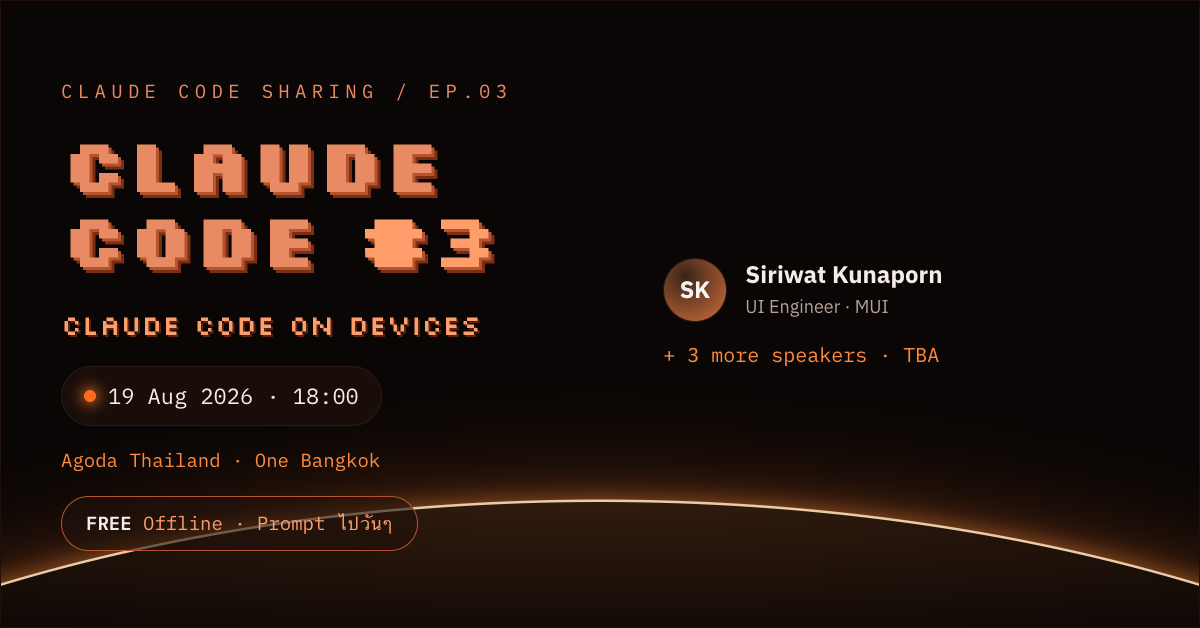
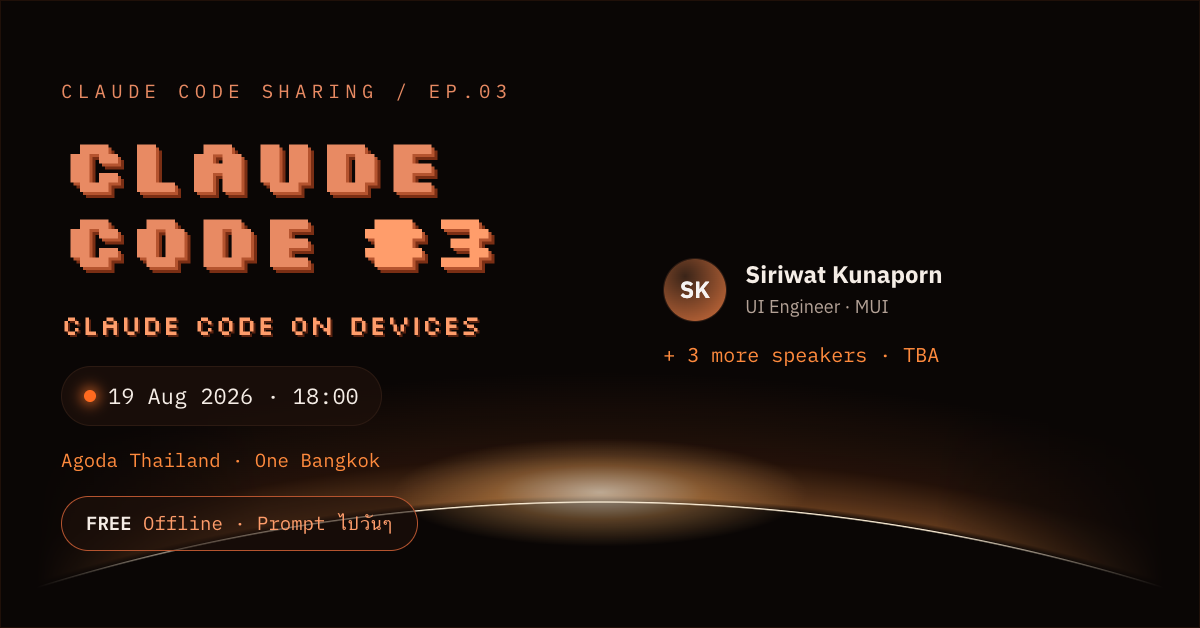
Orbit rework (thin fading rim + sunrise bloom, fixed radius) + hero layout: FREE top-right, 2-line title, drop EP.03, translucent-blur chips

Changed region(s): [[0.2775, 0.6959, 1.0, 0.9379], [0.1233, 0.8169, 0.3083, 0.8774], [0.0, 0.8471, 0.1233, 0.9379]]

diff --git a/meetups/claude-code-3/styles.css b/meetups/claude-code-3/styles.css
@@ -22,22 +22,24 @@ a{color:inherit;text-decoration:none}
 .back{display:inline-flex;align-items:center;gap:.5rem;font-family:"IBM Plex Mono",monospace;font-size:.82rem;color:var(--ash)}
 .back:hover{color:var(--flame)}
 .top-tag{font-family:"IBM Plex Mono",monospace;font-size:.72rem;letter-spacing:.18em;color:var(--ash-dim);text-transform:uppercase}
+.top-free{font-family:"IBM Plex Mono",monospace;font-size:.72rem;letter-spacing:.14em;color:var(--ash);text-transform:uppercase}
+.top-free strong{color:var(--flame);font-weight:600}
 
 /* hero */
 .hero{position:relative;min-height:96svh;display:flex;align-items:center;justify-content:center;overflow:hidden;padding:5rem var(--pad) 4rem;text-align:center}
 .hero-in{position:relative;z-index:2;max-width:760px;display:flex;flex-direction:column;align-items:center;gap:1.15rem}
-.p-title{font-family:"Silkscreen",monospace;font-weight:700;font-size:clamp(2rem,7.5vw,5rem);line-height:.98;white-space:nowrap;color:var(--coral);text-shadow:2px 2px 0 var(--coral-deep),4px 4px 0 var(--coral-shadow),6px 7px 16px rgba(0,0,0,.55)}
+.p-title{font-family:"Silkscreen",monospace;font-weight:700;font-size:clamp(2rem,7vw,4.3rem);line-height:.98;white-space:nowrap;color:var(--coral);text-shadow:2px 2px 0 var(--coral-deep),4px 4px 0 var(--coral-shadow),6px 7px 16px rgba(0,0,0,.55)}
 .p-title .hash{font-style:normal;color:var(--flame)}
 .tagline{font-family:"Silkscreen",monospace;font-size:clamp(1rem,3.2vw,1.7rem);letter-spacing:.04em;color:var(--flame);text-shadow:2px 2px 0 rgba(122,46,20,.7)}
 .lede{max-width:44ch;color:var(--bone);font-size:1.05rem;text-shadow:0 1px 12px rgba(8,4,2,.7)}
 .chips{display:flex;flex-wrap:wrap;gap:.55rem;justify-content:center}
-.chip{display:inline-flex;align-items:center;gap:.5rem;font-family:"IBM Plex Mono",monospace;font-size:.82rem;color:var(--bone);background:rgba(30,16,10,.72);border:1px solid var(--line);padding:.5rem .9rem;border-radius:999px}
+.chip{display:inline-flex;align-items:center;gap:.5rem;font-family:"IBM Plex Mono",monospace;font-size:.82rem;color:var(--bone);background:rgba(22,13,8,.38);border:1px solid rgba(255,180,120,.14);padding:.5rem .9rem;border-radius:999px;backdrop-filter:blur(10px);-webkit-backdrop-filter:blur(10px)}
 .chip .dot{width:8px;height:8px;border-radius:50%;background:var(--glow);box-shadow:0 0 10px 2px rgba(255,120,45,.8)}
 .cta-row{display:flex;flex-wrap:wrap;gap:.7rem;justify-content:center;margin-top:.2rem}
 .btn{font-family:"IBM Plex Mono",monospace;font-size:.82rem;letter-spacing:.05em;text-transform:uppercase;padding:.78rem 1.35rem;border-radius:999px;font-weight:600;transition:transform .15s,box-shadow .2s,border-color .2s,color .2s;cursor:pointer;border:none}
 .btn:hover{transform:translateY(-2px)}
 .btn-primary{background:linear-gradient(135deg,var(--flame),var(--glow));color:#20100a;box-shadow:0 8px 26px -8px rgba(255,120,45,.7)}
-.btn-ghost{border:1px solid var(--line);color:var(--bone);background:rgba(30,16,10,.4)}
+.btn-ghost{border:1px solid rgba(255,180,120,.16);color:var(--bone);background:rgba(22,13,8,.34);backdrop-filter:blur(10px);-webkit-backdrop-filter:blur(10px)}
 .btn-ghost:hover{border-color:var(--glow-soft);color:var(--flame)}
 .btn-ghost[aria-disabled="true"]{opacity:.55;pointer-events:none}
 .hero-meta{list-style:none;display:flex;flex-wrap:wrap;gap:.5rem .9rem;justify-content:center;font-family:"IBM Plex Mono",monospace;font-size:.75rem;color:var(--ash);margin-top:.2rem}
@@ -47,11 +49,11 @@ a{color:inherit;text-decoration:none}
 .orga-line{display:flex;align-items:center;gap:.6rem;color:var(--ash);font-size:.9rem;margin-top:.5rem}
 .orga-line strong{color:var(--bone)}
 .orga-line img{width:34px;height:34px}
-.horizon{position:absolute;inset:0;z-index:1;pointer-events:none;overflow:hidden}
-/* atmospheric glow rising off the limb into space */
-.horizon::before{content:"";position:absolute;left:50%;bottom:0;transform:translateX(-50%);width:150%;height:60%;background:radial-gradient(ellipse 60% 95% at 50% 100%,rgba(255,134,54,.40),rgba(255,106,31,.10) 46%,transparent 66%)}
-/* the planet: dark body with a glowing curved limb (Earth from space) */
-.horizon::after{content:"";position:absolute;left:50%;top:70%;transform:translateX(-50%);width:220%;height:150vh;border-radius:50%;background:radial-gradient(ellipse 100% 30% at 50% 0%,rgba(255,140,60,.18),transparent 55%),var(--void);box-shadow:0 -1px 0 1.5px rgba(255,230,192,.85),0 2px 30px 4px rgba(255,150,60,.5),0 6px 100px 26px rgba(255,110,35,.26)}
+.horizon{--orbit-r:1900px;--line-y:66%;position:absolute;inset:0;z-index:1;pointer-events:none;overflow:hidden;-webkit-mask-image:linear-gradient(90deg,transparent 3%,#000 24%,#000 76%,transparent 97%);mask-image:linear-gradient(90deg,transparent 3%,#000 24%,#000 76%,transparent 97%)}
+/* atmosphere glow ring hugging the limb + sunrise bloom at centre */
+.horizon::before{content:"";position:absolute;inset:0;background:radial-gradient(ellipse 26% 13% at 50% calc(var(--line-y) - 1.5%),rgba(255,246,228,.60),rgba(255,182,104,.32) 36%,transparent 72%),radial-gradient(var(--orbit-r) var(--orbit-r) at 50% calc(var(--line-y) + var(--orbit-r)),transparent calc(var(--orbit-r) - 1px),rgba(255,150,70,.34) calc(var(--orbit-r) + 6px),rgba(255,116,42,.10) calc(var(--orbit-r) + 46px),transparent calc(var(--orbit-r) + 130px))}
+/* the thin bright rim */
+.horizon::after{content:"";position:absolute;inset:0;background:radial-gradient(var(--orbit-r) var(--orbit-r) at 50% calc(var(--line-y) + var(--orbit-r)),transparent calc(var(--orbit-r) - 1.6px),rgba(255,240,216,.95) calc(var(--orbit-r) - .3px),rgba(255,240,216,.95) var(--orbit-r),transparent calc(var(--orbit-r) + .9px))}
 
 /* generic section */
 .section{padding:clamp(3rem,7vw,5rem) 0;border-top:1px solid var(--line)}
@@ -111,8 +113,10 @@ a{color:inherit;text-decoration:none}
 
 /* the poster artwork */
 .poster{position:absolute;top:0;left:0;transform-origin:top left;overflow:hidden;background:var(--void);color:var(--bone);box-shadow:0 24px 60px -20px rgba(0,0,0,.8);border:1px solid #201009}
-.poster .stagelight{position:absolute;left:50%;bottom:0;transform:translateX(-50%);width:150%;height:46%;pointer-events:none;background:radial-gradient(ellipse 58% 95% at 50% 100%,rgba(255,134,54,.40),rgba(255,106,31,.10) 46%,transparent 66%)}
-.poster .light{position:absolute;left:50%;top:66%;transform:translateX(-50%);width:200%;height:200%;border-radius:50%;background:radial-gradient(ellipse 100% 24% at 50% 0%,rgba(255,140,60,.16),transparent 55%),var(--void);box-shadow:0 -1px 0 1.5px rgba(255,230,192,.85),0 2px 26px 4px rgba(255,150,60,.5),0 6px 90px 22px rgba(255,110,35,.26)}
+.poster{--orbit-r:1900px;--line-y:66%}
+.poster .stagelight,.poster .light{-webkit-mask-image:linear-gradient(90deg,transparent 3%,#000 22%,#000 78%,transparent 97%);mask-image:linear-gradient(90deg,transparent 3%,#000 22%,#000 78%,transparent 97%)}
+.poster .stagelight{position:absolute;inset:0;pointer-events:none;background:radial-gradient(ellipse 24% 12% at 50% calc(var(--line-y) - 1.5%),rgba(255,246,228,.60),rgba(255,182,104,.32) 36%,transparent 72%),radial-gradient(var(--orbit-r) var(--orbit-r) at 50% calc(var(--line-y) + var(--orbit-r)),transparent calc(var(--orbit-r) - 1px),rgba(255,150,70,.34) calc(var(--orbit-r) + 6px),rgba(255,116,42,.10) calc(var(--orbit-r) + 46px),transparent calc(var(--orbit-r) + 130px))}
+.poster .light{position:absolute;inset:0;background:radial-gradient(var(--orbit-r) var(--orbit-r) at 50% calc(var(--line-y) + var(--orbit-r)),transparent calc(var(--orbit-r) - 1.6px),rgba(255,240,216,.95) calc(var(--orbit-r) - .3px),rgba(255,240,216,.95) var(--orbit-r),transparent calc(var(--orbit-r) + .9px))}
 .poster .pcontent{position:relative;z-index:2;height:100%;display:flex;flex-direction:column;padding:56px}
 .pk-eyebrow{font-family:"IBM Plex Mono",monospace;letter-spacing:.28em;font-size:19px;color:var(--coral)}
 .pk-title{font-family:"Silkscreen",monospace;font-weight:700;color:var(--coral);line-height:.98;text-shadow:3px 3px 0 var(--coral-deep),6px 6px 0 var(--coral-shadow)}
@@ -157,8 +161,7 @@ a{color:inherit;text-decoration:none}
 .poster[data-mode="landscape"] .pk-more{font-size:20px}
 .poster[data-mode="landscape"] .pk-badge{font-size:19px}
 .poster[data-mode="landscape"] .pk-orga{font-size:19px}
-.poster[data-mode="landscape"] .light{top:80%}
-.poster[data-mode="landscape"] .stagelight{height:34%}
+.poster[data-mode="landscape"]{--line-y:80%}
 .poster[data-mode="landscape"] .pk-speakers{display:flex;flex-direction:column;gap:16px}
 
 /* footer */

diff --git a/meetups/claude-code-3/index.html b/meetups/claude-code-3/index.html
@@ -20,14 +20,14 @@
 
 <header class="topbar">
   <a class="back" href="../../">← All meetups</a>
+  <span class="top-free"><strong>FREE</strong> · Offline event</span>
 </header>
 
 <main id="main">
   <!-- HERO -->
   <section class="hero">
     <div class="hero-in">
-      <p class="eyebrow">EP.03</p>
-      <h1 class="p-title">CLAUDE<br>CODE<br>SHARING <span class="hash">#3</span></h1>
+      <h1 class="p-title">CLAUDE CODE<br>SHARING <span class="hash">#3</span></h1>
       <p class="tagline">Claude Code on Devices</p>
       <div class="chips">
         <span class="chip"><span class="dot"></span>19 Aug 2026 · 18:00–21:00</span>
@@ -36,9 +36,6 @@
       <div class="cta-row">
         <a class="btn btn-ghost" aria-disabled="true" href="#">Register · TBA</a>
       </div>
-      <ul class="hero-meta">
-        <li><strong>FREE</strong> Offline event</li>
-      </ul>
       <p class="orga-line"><img src="assets/logo.svg" alt=""/><span>organized by <strong>Prompt ไปวันๆ</strong></span></p>
     </div>
     <div class="horizon" aria-hidden="true"></div>
